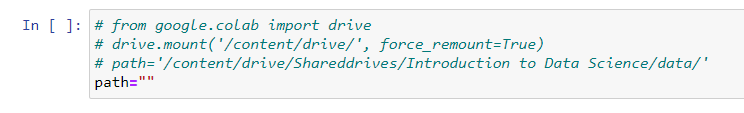
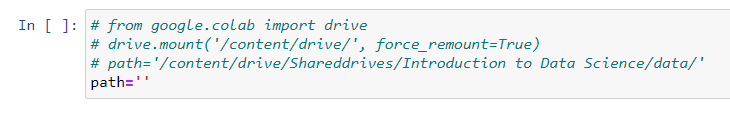
Update README

diff --git a/README.md b/README.md
@@ -1,5 +1,5 @@
 # amazon-product-analysis
-Introduction to Data Science Project
+An Introduction to Data Science Project
 
 ## Intro
 Online review has been a very useful tool for online marketing. It is one of the unique features of online marketing and online shopping that you cannot experience from physical shopping. Online product reviews enable more diversified opinions that will give consumers different opinions regarding the product. It is also made easily accessible by consumers. 
@@ -23,11 +23,15 @@ Datasets:
 
 [Amazon Review Data (2018)](http://deepyeti.ucsd.edu/jianmo/amazon/index.html) (Downloadable)
 
-Notes:
+
+
+Jupyter Notebook
+
+Click [here](https://nbviewer.jupyter.org/github/BingQuanChua/amazon-product-analysis/blob/main/Amazon%20Beauty%20Product.ipynb) to view the Jupyter notebook online (the notebook is too large to view on GitHub).
 
 The Jupyter Notebook was done on Google Colab, hence a path needed to be set. 
 
-To run locally you can put the datasets in the same directory, comment out (`#`) the first 3 lines and add `path=""`
+To run locally you can put the datasets in the same directory, comment out (`#`) the first 3 lines and add `path=''`
 
 ![Set local path](https://github.com/BingQuanChua/amazon-product-analysis/blob/main/img/setpath.PNG?raw=true)
 
